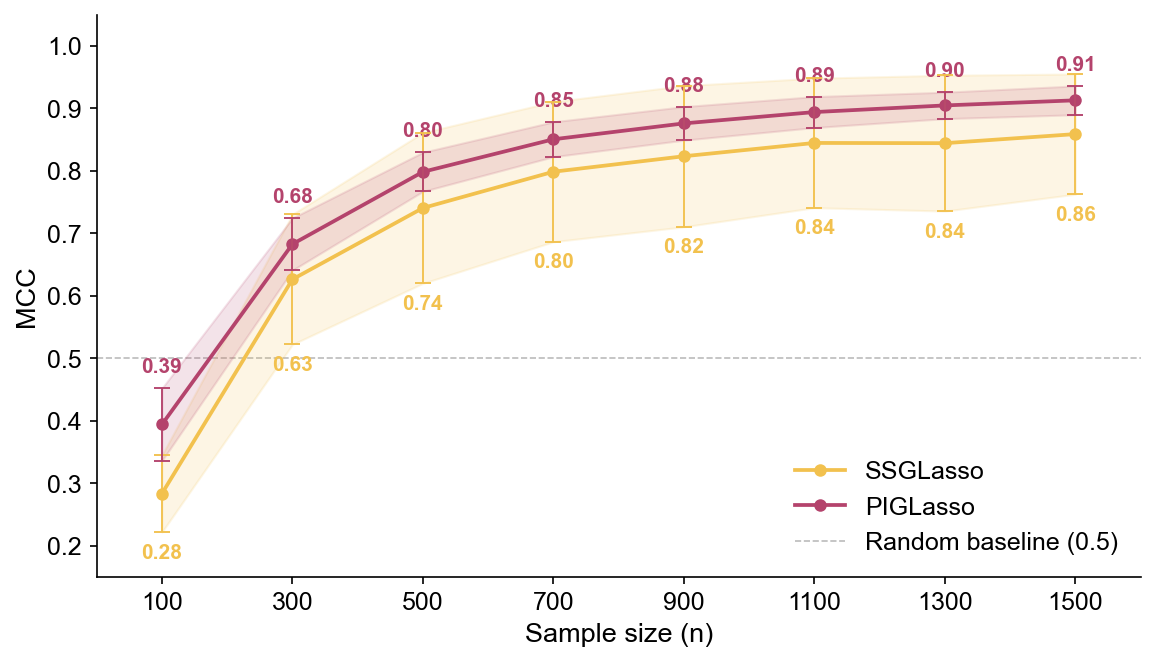
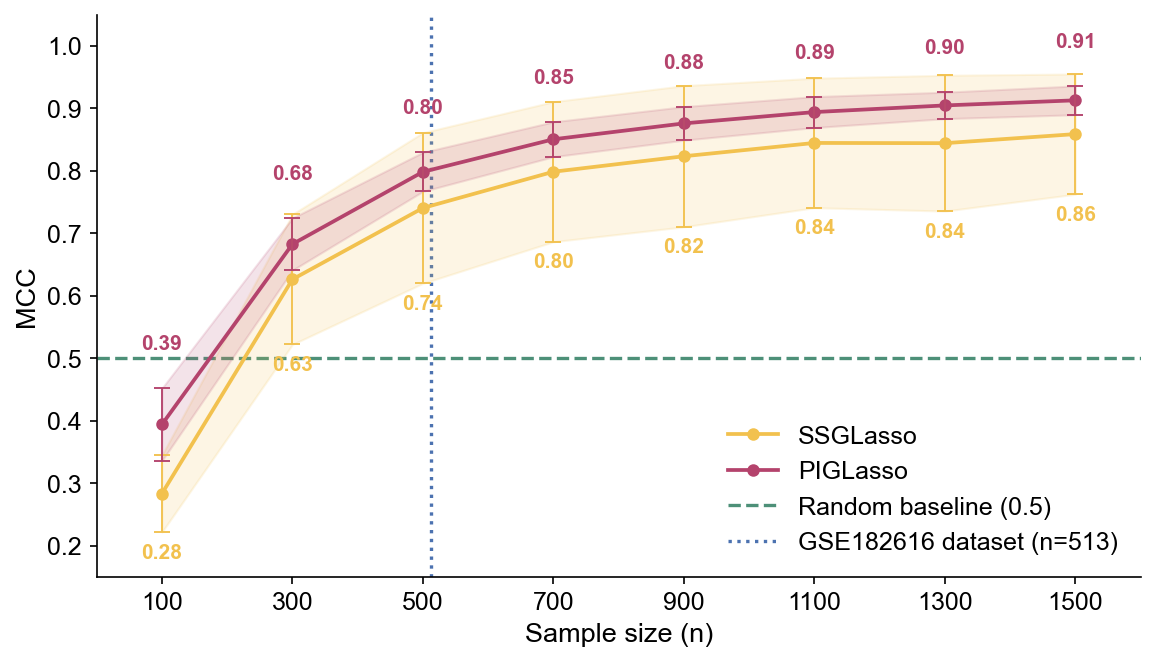
update diffusion and mcc_vs_n plots
Removes all titles/subtitles from diffusion and mcc_vs_n plots.
Adds individual panel exports (A/B/C/D) for diffusion analysis.
Standardises text sizes across plots.

diff --git a/scripts/plot_diffusion.py b/scripts/plot_diffusion.py
@@ -77,7 +77,7 @@ TOPOS  = ["cluster", "hub", "random", "scale-free"]
 
 def _heatmap(ax, diff):
     methods  = [m for m in METHODS if m in diff["method"].unique()]
-    small3   = diff[diff["config"].isin(SMALL3)]
+    small3   = diff[diff["config"] == "n513p164"]
     mat      = np.full((len(methods), len(TOPOS)), np.nan)
     for mi, m in enumerate(methods):
         for ti, t in enumerate(TOPOS):
@@ -168,7 +168,7 @@ def _delta_box(ax, diff):
 # ---------------------------------------------------------------------------
 
 def _knockout_bar(ax, diff):
-    small3   = diff[diff["config"].isin(SMALL3)]
+    small3   = diff[diff["config"] == "n513p164"]
     methods  = [m for m in METHODS if m in small3["method"].unique()]
     n_topo   = len(TOPOS)
     n_meth   = len(methods)
@@ -316,10 +316,8 @@ def _add_method_legend(fig, methods):
 def build_panel_a(df: pd.DataFrame) -> plt.Figure:
     diff = df[df["benchmark"] == "diffusion"]
     fig, ax = plt.subplots(figsize=(7, 5))
-    fig.subplots_adjust(left=0.14, right=0.88, top=0.80, bottom=0.14)
+    fig.subplots_adjust(left=0.14, right=0.88, top=0.95, bottom=0.14)
     _heatmap(ax, diff)
-    methods = [m for m in METHODS if m in diff["method"].unique()]
-    _add_method_legend(fig, methods)
     return fig
 
 

diff --git a/scripts/plot_mcc_vs_n.py b/scripts/plot_mcc_vs_n.py
@@ -97,13 +97,15 @@ def build_figure(df: pd.DataFrame) -> plt.Figure:
                     capsize=4, capthick=0.9, zorder=4)
 
         for n, m, s in zip(np.array(N_VALS)[mask], means[mask], sds[mask]):
-            y_txt = (m + s + 0.018) if lbl_sign > 0 else (m - s - 0.018)
+            y_txt = (m + s + 0.055) if lbl_sign > 0 else (m - s - 0.018)
             ax.text(n, y_txt, f"{m:.2f}",
                     ha="center", va=lbl_va, fontsize=10,
                     fontweight="bold", color=color)
 
-    ax.axhline(0.5, color="#bbbbbb", linewidth=0.8, linestyle="--",
+    ax.axhline(0.5, color="#4D9078", linewidth=1.6, linestyle="--",
                label="Random baseline (0.5)", zorder=1)
+    ax.axvline(513, color="#4C72B0", linewidth=1.6, linestyle=":",
+               label="GSE182616 dataset (n=513)", zorder=1)
 
     ax.set_xlabel("Sample size (n)")
     ax.set_ylabel("MCC")